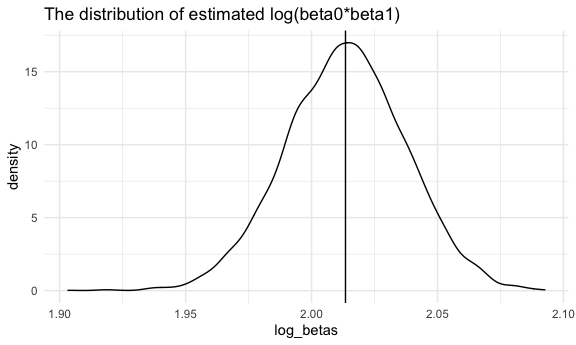
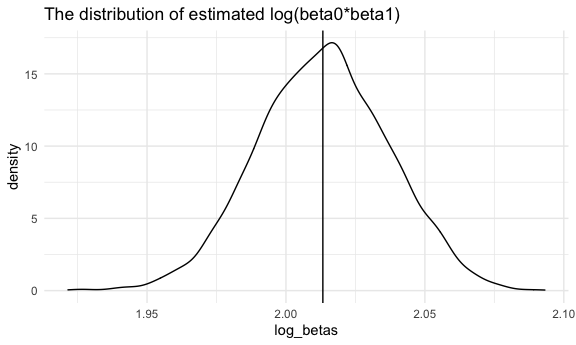
add commit for 95% CI

diff --git a/hw6.md b/hw6.md
@@ -48,6 +48,8 @@ options(
 
 sclae_color_discrete = scale_color_viridis_d
 scale_fill_discrete = scale_fill_viridis_d
+
+set.seed(1)
 ```
 
 ## Problem 1 is a lecture example
@@ -353,9 +355,9 @@ cv_df %>%
 
 | model   | avg\_rmse |
 | :------ | --------: |
-| current |  271.7712 |
-| model1  |  333.7550 |
-| model2  |  288.3390 |
+| current |  271.2063 |
+| model1  |  331.5183 |
+| model2  |  286.4521 |
 
 According to the plot and table, we know that current model has better
 predictive capability compared to the two given models.
@@ -450,7 +452,7 @@ beta_df %>%
 
 <img src="hw6_files/figure-gfm/unnamed-chunk-10-2.png" width="90%" />
 According to these to plots, we can conclude that the distribution of
-the r-square and log(beta0\*beta1) are aprroximately normal.
+the r-square and log(beta0\*beta1) are approximately normal.
 
 ##### identify the 2.5% and 97.5% quantiles to provide a 95% confidence interval for r-square and log(beta0\*beta1)
 
@@ -475,8 +477,8 @@ boot_straps %>%
 
 | names |      x |
 | :---- | -----: |
-| 2.5%  | 0.8938 |
-| 97.5% | 0.9273 |
+| 2.5%  | 0.8937 |
+| 97.5% | 0.9275 |
 
 The 95% confidence interval for r-square
 
@@ -495,7 +497,10 @@ beta_df %>%
 
 | names |      x |
 | :---- | -----: |
-| 2.5%  | 1.9663 |
-| 97.5% | 2.0602 |
+| 2.5%  | 1.9669 |
+| 97.5% | 2.0585 |
 
 The 95% confidence interval for log(beta0\*beta1)
+
+The 95% confidence interval for r-square is (0.8939, 0.9265). The 95%
+confidence interval for log(beta0\*beta1 is (1.9659, 2.0582).
